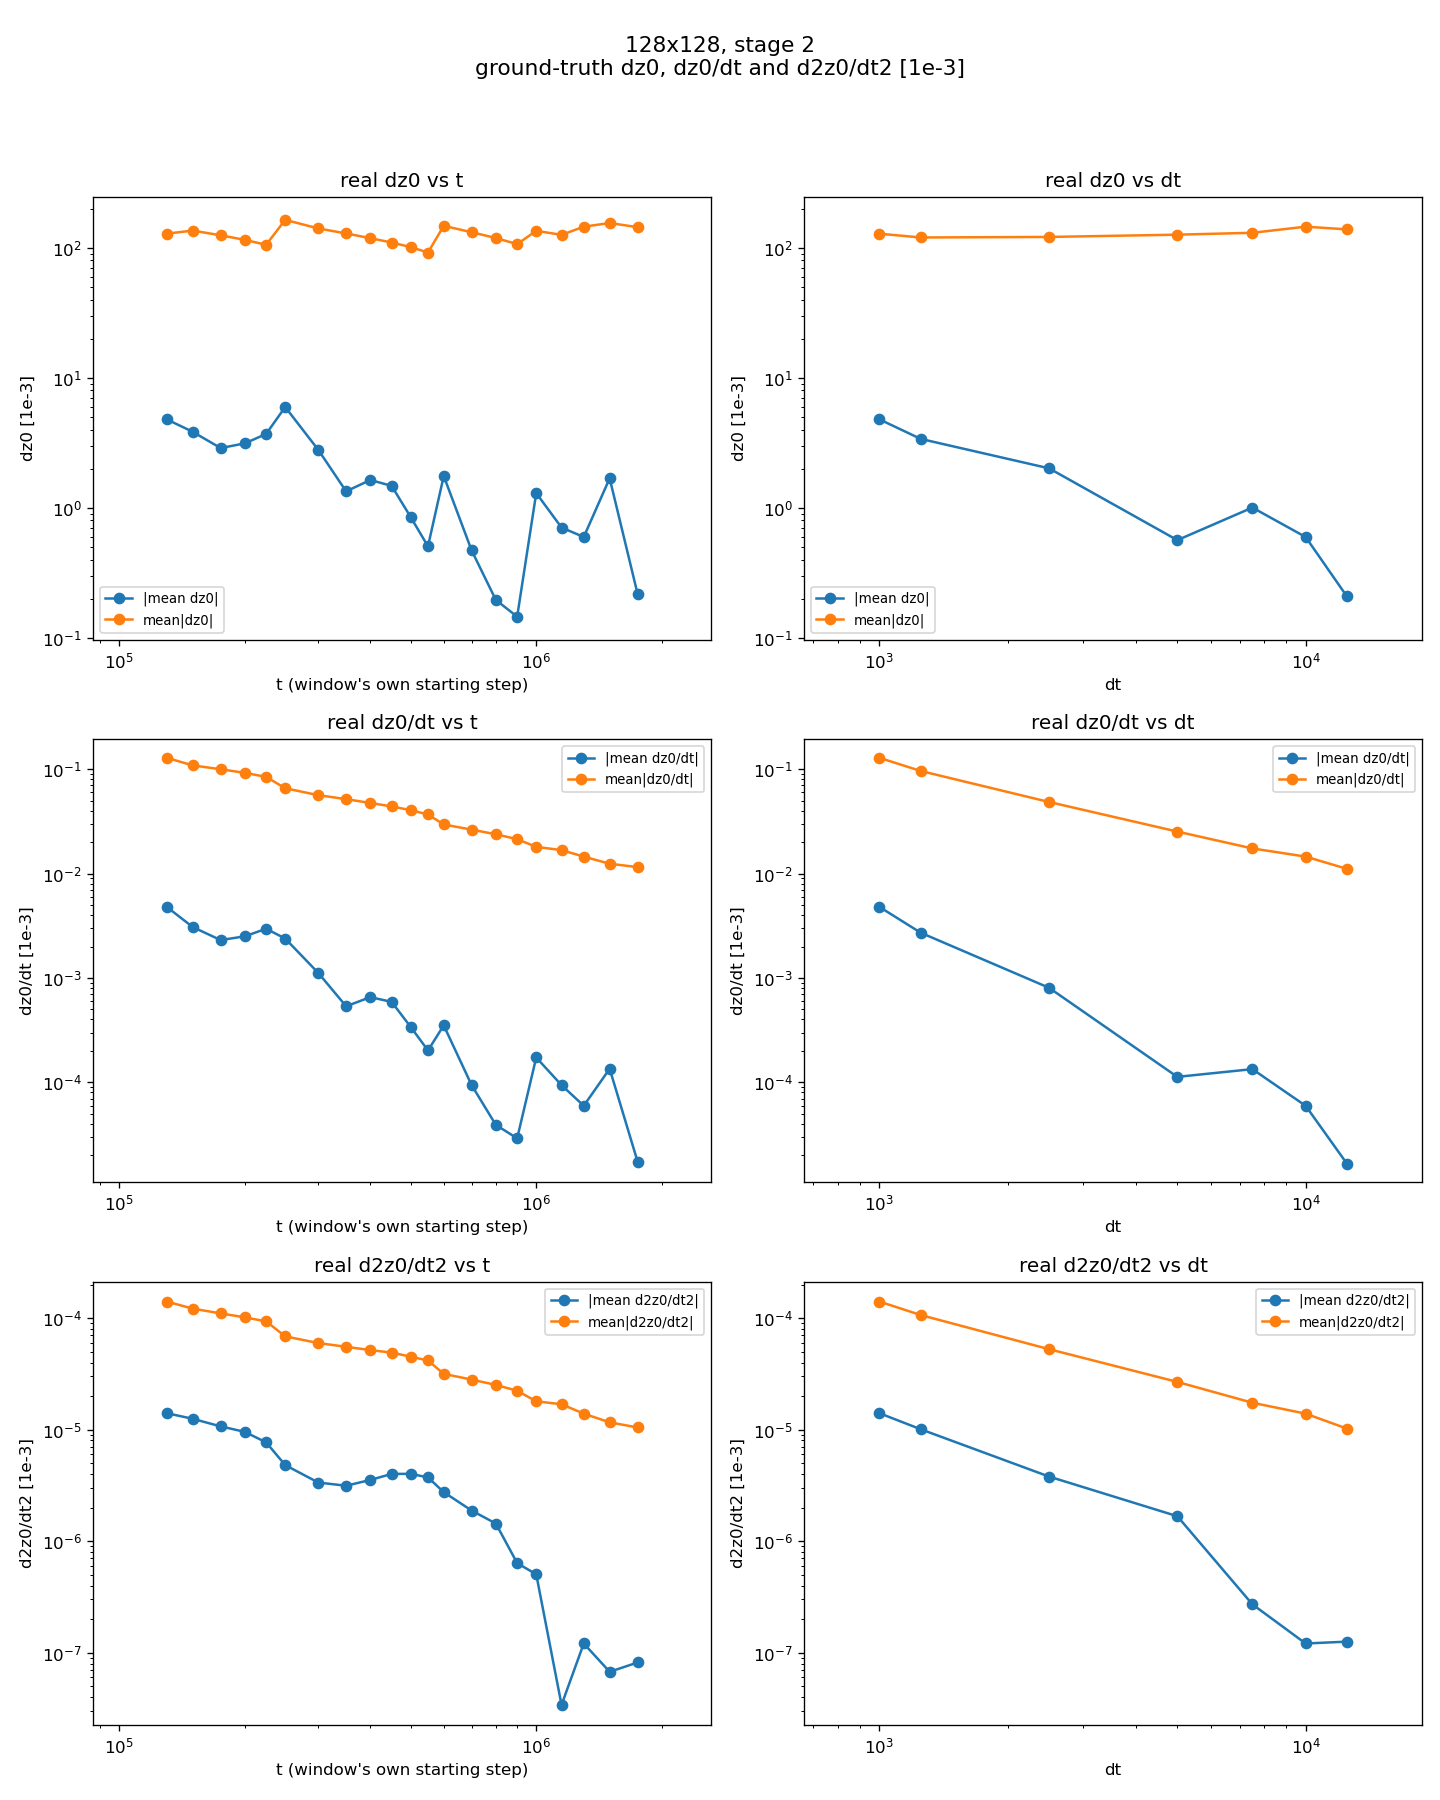
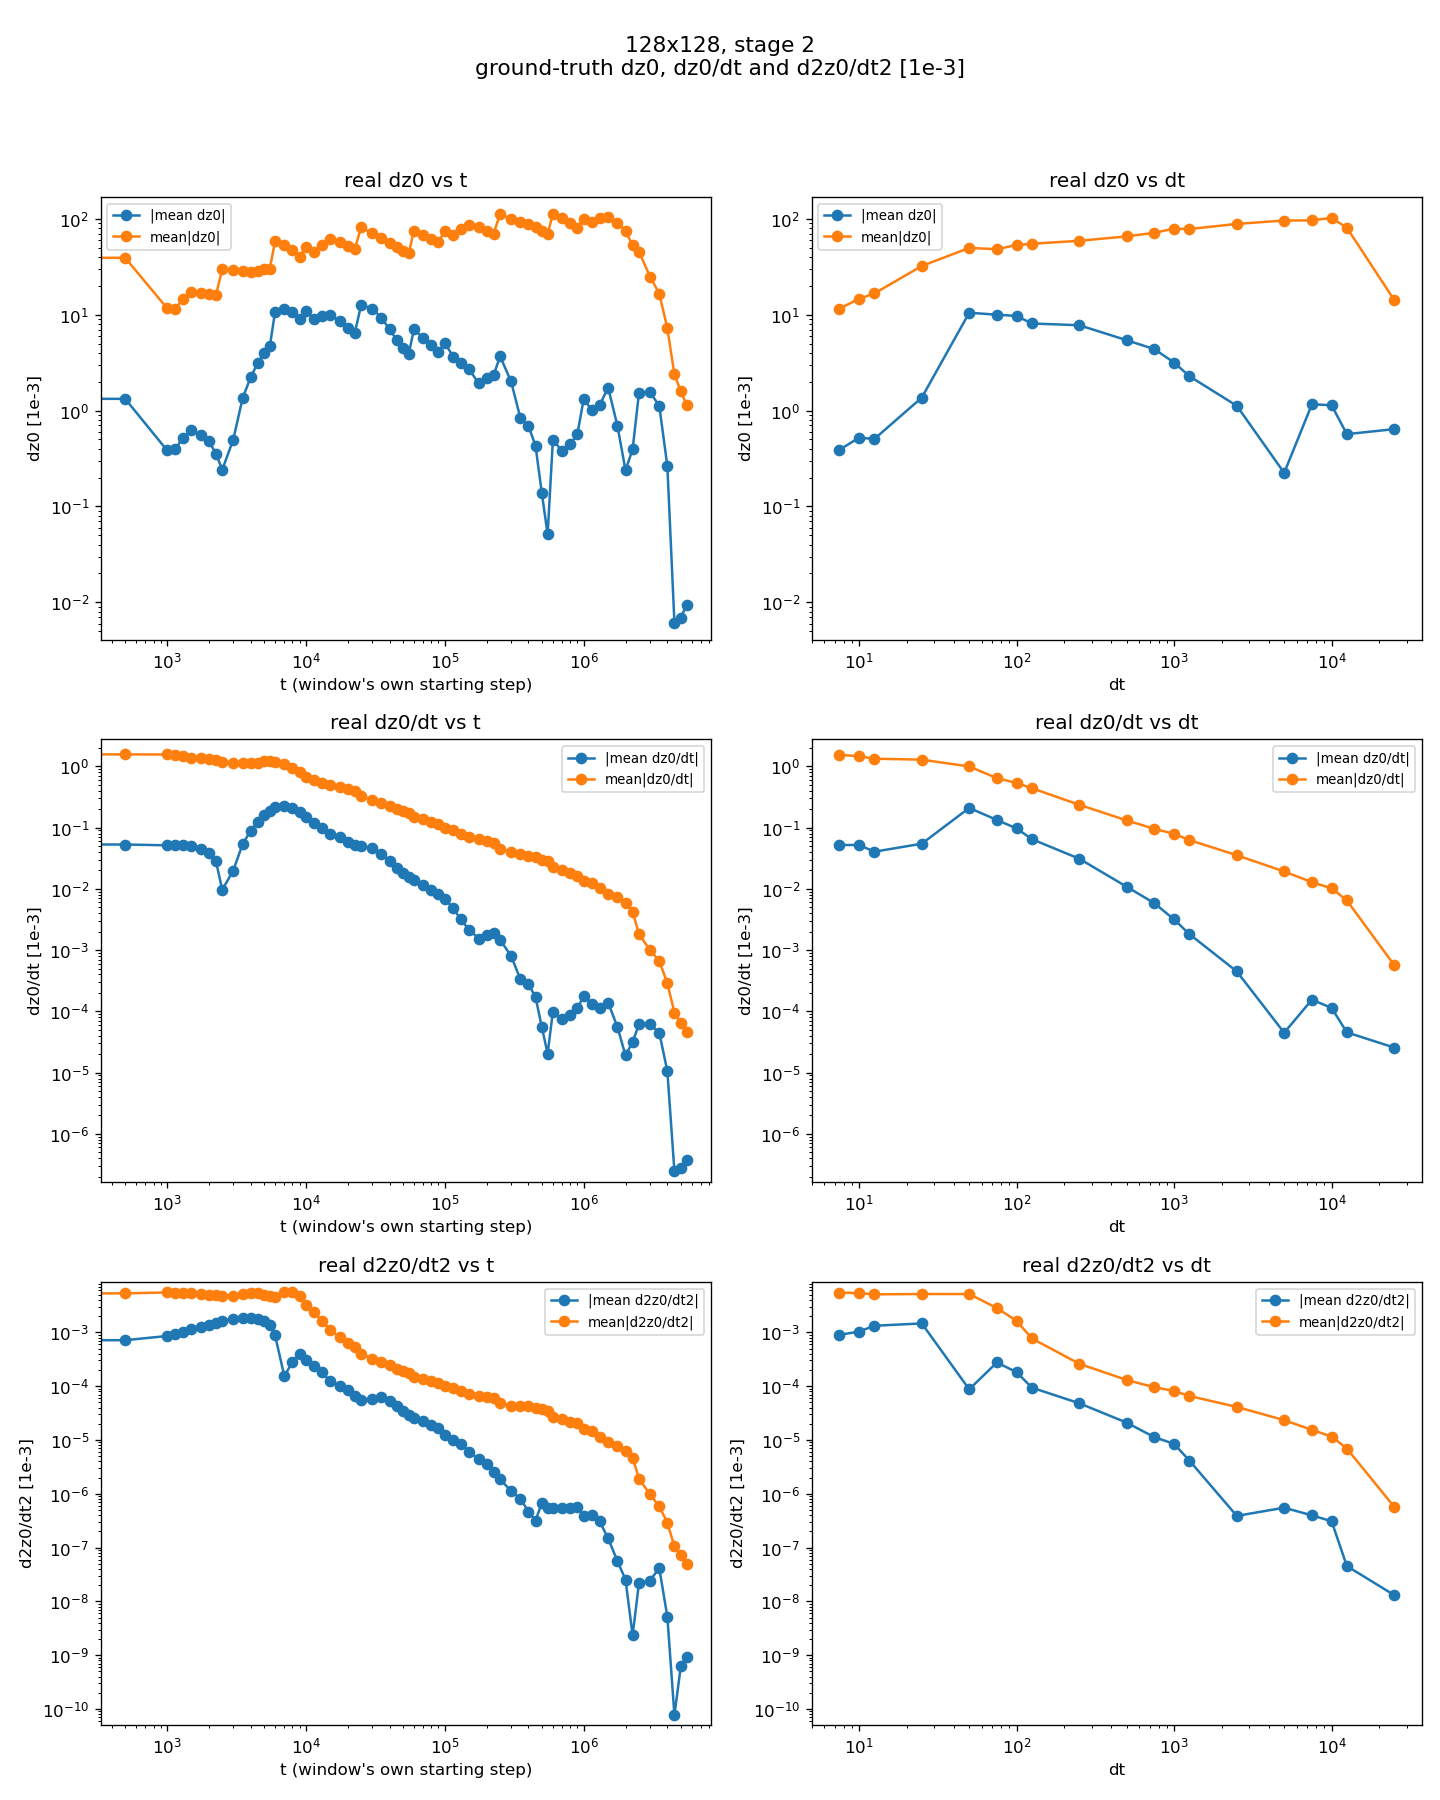
result plots

diff --git a/python/evaluation/compare_f_theta.py b/python/evaluation/compare_f_theta.py
@@ -507,10 +507,13 @@ def _stats_figure(stats: dict, a: dict, b: dict, title: str,
     _enc_pretty = _pretty_label(Path(a.get("ae_path", "")).stem, include_year=False)
     _es = re.search(r"\((.*?)\)", _enc_pretty)   # pull just the "26/08 at 14:55"
     _enc = f"  [{_es.group(1)}]" if _es else ""
+    # Keep the legend short: the "(z0 + z1 dt)" / "(frozen dz0/dt)" descriptors
+    # are already in the suptitle, and the encoder tag made these overflow.
+    # Drop the descriptor, keep the encoder provenance tag.
     labels = {"a": a["label"], "b": b["label"],
-              "causal": "causal (frozen dz0/dt)" + _enc,
-              "stage2": "stage 2 (z0 + z1 dt)" + _enc + (
-                  "" if _stage2_comparable else "  [re-encodes -- not comparable]")}
+              "causal": "causal" + _enc,
+              "stage2": "stage 2" + _enc + (
+                  "" if _stage2_comparable else "  [not comparable]")}
     linestyles = {"a": "-", "b": "-", "causal": "-",
                   "stage2": "-" if _stage2_comparable else ":"}
     has_causal = bool(stats.get("step_loss_causal"))
@@ -1366,10 +1369,23 @@ def _setup_comparison(path_a, path_b, device, n_samples, n_steps, seed,
 
 def _default_figure_path(prefix, a, b, seed, n_steps_used, z1_resync,
                           fixed_windows):
-    sa = a["label"].replace(" ", "")
-    sb = b["label"].replace(" ", "")
-    name = f"{prefix}-{sa}_vs_{sb}" if prefix and " vs " not in prefix \
-        else f"{sa}_vs_{sb}"
+    # Build the FILENAME from the checkpoint stem, never from the (now
+    # prettified) legend label: the pretty label contains "/" and ":"
+    # (e.g. "stage 3a (27/08 at 22:44)"), which are a directory separator and
+    # an illegal-on-Windows char -- they crashed mkdir. The stem is filesystem-
+    # safe by construction. _sanitize is a final guard for any stray character.
+    def _sanitize(text):
+        for ch in ' /:()':
+            text = text.replace(ch, '')
+        return text
+    # The checkpoint stems are the source of truth and already carry the size
+    # prefix (e.g. "128x128-stage3a-..."); join them directly. Do NOT prepend
+    # `prefix` (it would duplicate the size -> "128x128-128x128-...") and do NOT
+    # build from the prettified label (its "/" and ":" crashed mkdir, and a
+    # filename should be reversible to its source, not a pretty display).
+    sa = _sanitize(Path(a["path"]).stem)
+    sb = _sanitize(Path(b["path"]).stem)
+    name = f"{sa}_vs_{sb}"
     suffix = "" if fixed_windows else f"-seed{seed}"
     regime_tag = f"-{n_steps_used}step{'s' if n_steps_used != 1 else ''}"
     regime_tag += "-resync" if z1_resync else "-propagated"

diff --git a/python/utils/logging_utils.py b/python/utils/logging_utils.py
@@ -206,12 +206,20 @@ class EpochProgress:
     """
 
     def __init__(self, n_batches, delay_s: float = 20.0, every: int = 50,
-                 stream=None, label: str = "epoch progress: batch", unit: str = ""):
+                 stream=None, label: str = "epoch progress: batch", unit: str = "",
+                 tail_label: str | None = None, tail_seconds: float | None = None):
         self._n = n_batches
         self._delay = delay_s
         self._every = max(1, every)
         self._label = label            # what is being counted (default: the
         self._unit = unit              # epoch-batch wording, unchanged)
+        # Optional post-loop phase (e.g. validation) whose time this bar's ETA
+        # should also account for -- otherwise "~6m left" reads as "left in the
+        # epoch" when it's only "left in TRAINING". tail_label names the phase;
+        # tail_seconds is its estimated duration (None = not yet known, e.g.
+        # the first epoch, in which case the ETA is marked "+ <tail_label>").
+        self._tail_label = tail_label
+        self._tail_seconds = tail_seconds
         self._stream = stream if stream is not None else sys.stdout
         self._start = time.monotonic()
         self._i = 0
@@ -239,8 +247,19 @@ class EpochProgress:
             elapsed_since = now - self._activated_at
             if done_since > 0 and elapsed_since > 0:
                 rate = done_since / elapsed_since          # batches/sec
-                remaining = (self._n - self._i) / rate     # seconds
-                eta = f"~{_format_duration(remaining)} left"
+                remaining = (self._n - self._i) / rate     # seconds of THIS loop
+                if self._tail_label is None:
+                    eta = f"~{_format_duration(remaining)} left"
+                elif self._tail_seconds is None:
+                    # tail expected but its duration isn't known yet (first
+                    # epoch): don't hide it, flag the estimate as incomplete.
+                    eta = (f"~{_format_duration(remaining)} left "
+                           f"+ {self._tail_label}")
+                else:
+                    total = remaining + self._tail_seconds
+                    eta = (f"~{_format_duration(total)} left = "
+                           f"{_format_duration(remaining)} + "
+                           f"{_format_duration(self._tail_seconds)}")
             else:
                 eta = "estimating..."
             _u = f" {self._unit}" if self._unit else ""

diff --git a/python/training/train_stage2.py b/python/training/train_stage2.py
@@ -1376,6 +1376,10 @@ def train_stage2(
         if _cuda_rng_state is not None:
             torch.cuda.set_rng_state(_cuda_rng_state)
 
+    _prev_val_seconds = None   # previous epoch's validation duration, added to
+    #                            the training bar's ETA so it reflects the WHOLE
+    #                            epoch, not just training (None until 1st epoch's
+    #                            validation has been timed -> shown as "+ validation")
     for epoch in range(0 if epochs == 0 else 1, epochs + 1):
         # Linear ramp: 0 at epoch 0 (never reached, epochs are 1-indexed)
         # up to deriv_weight at epoch=deriv_weight_warmup_epochs and
@@ -1531,7 +1535,9 @@ def train_stage2(
         if epoch > 0:
             n_train = len(train_set)
             _n_train_batches = 0
-            _epoch_progress = EpochProgress(len(train_loader))
+            _epoch_progress = EpochProgress(
+                len(train_loader),
+                tail_label="validation", tail_seconds=_prev_val_seconds)
             for batch in train_loader:
                 _epoch_progress.tick()
                 bs = batch[0].size(0)
@@ -1591,6 +1597,7 @@ def train_stage2(
         # delay, so it only shows for a genuinely slow val pass, not every epoch.
         _val_prog = EpochProgress(len(val_loader), label="validation",
                                   unit="batches")
+        _val_t0 = time.monotonic()
         with torch.no_grad():
             for batch in val_loader:
                 _val_prog.tick()
@@ -1605,6 +1612,7 @@ def train_stage2(
                 val_deriv_sum += deriv * bs
                 val_interp_sum += interp_val * bs
         _val_prog.close()
+        _prev_val_seconds = time.monotonic() - _val_t0   # feeds next epoch's ETA
         val_total = (val_total_sum / n_val).item()
         val_recon = (val_recon_sum / n_val).item()
         val_stats = (val_stats_sum / n_val).item()

diff --git a/python/training/spike_guard.py b/python/training/spike_guard.py
@@ -370,6 +370,7 @@ class SkipReporter:
         self._explained = False
         self._quiet_epochs = 0
         self._quiet_batches = 0
+        self._quiet_total = 0
         self._quiet_worst = 0.0
         self._last_digest_epoch = 0
 
@@ -399,18 +400,21 @@ class SkipReporter:
             else:
                 self._quiet_epochs += 1
                 self._quiet_batches += total
+                self._quiet_total += n_batches
                 self._quiet_worst = max(self._quiet_worst, ratio)
 
         if (self.digest_every and self._quiet_epochs
                 and epoch - self._last_digest_epoch >= self.digest_every):
+            _pct = 100.0 * self._quiet_batches / self._quiet_total if self._quiet_total else 0.0
             lines.append(
-                f"  [epochs {self._last_digest_epoch + 1}-{epoch}: {self._quiet_batches} "
+                f"  [epochs {self._last_digest_epoch + 1}-{epoch}: {self._quiet_batches}"
+                f"/{self._quiet_total} ({_pct:.2g}%) "
                 f"further batch(es) skipped across {self._quiet_epochs} epoch(s), worst "
                 f"{self._quiet_worst:.3g}x its band median -- below the reporting bar "
                 f"({self.notable_ratio:g}x, or {100 * self.notable_fraction:g}% of an "
                 f"epoch's batches), i.e. the guard trimming a marginal tail]")
             self._last_digest_epoch = epoch
-            self._quiet_epochs = self._quiet_batches = 0
+            self._quiet_epochs = self._quiet_batches = self._quiet_total = 0
             self._quiet_worst = 0.0
         return "\n".join(x for x in lines if x)
 

diff --git a/python/tests/test_spike_guard.py b/python/tests/test_spike_guard.py
@@ -1719,13 +1719,13 @@ def test_suppressed_skips_are_digested_not_discarded():
         assert r.epoch(ep, 0, None, 1, _marginal(), 13) == ""
     out = r.epoch(10, 0, None, 1, _marginal(), 13)
     assert "further batch(es) skipped" in out, out
-    assert "10 further" in out, f"digest lost some of the count: {out}"
+    assert "10/" in out, f"digest lost some of the count: {out}"
     assert "11.9x" in out
     # and the counter resets, so the next digest is not cumulative
     for ep in range(11, 20):
         r.epoch(ep, 0, None, 1, _marginal(), 13)
     out2 = r.epoch(20, 0, None, 1, _marginal(), 13)
-    assert "10 further" in out2, out2
+    assert "10/" in out2, out2
 
 
 def test_the_explanation_appears_on_the_first_NOTABLE_skip():

diff --git a/python/evaluation/check_stdev_phi_time.py b/python/evaluation/check_stdev_phi_time.py
@@ -1385,7 +1385,7 @@ def main():
                               "check_stdev_phi_temperature, the early steps are what tau is "
                               "estimated from, so raising this further discards the signal this "
                               "diagnostic is built on")
-    parser.add_argument("--ref-fraction", type=float, default=0.5)
+    parser.add_argument("--ref-fraction", type=float, default=0.6)
     parser.add_argument("--plot", action=argparse.BooleanOptionalAction, default=True,
                          help="--no-plot skips rendering the figure, which is ~99%% of the "
                               "runtime; the console tables are unaffected")
